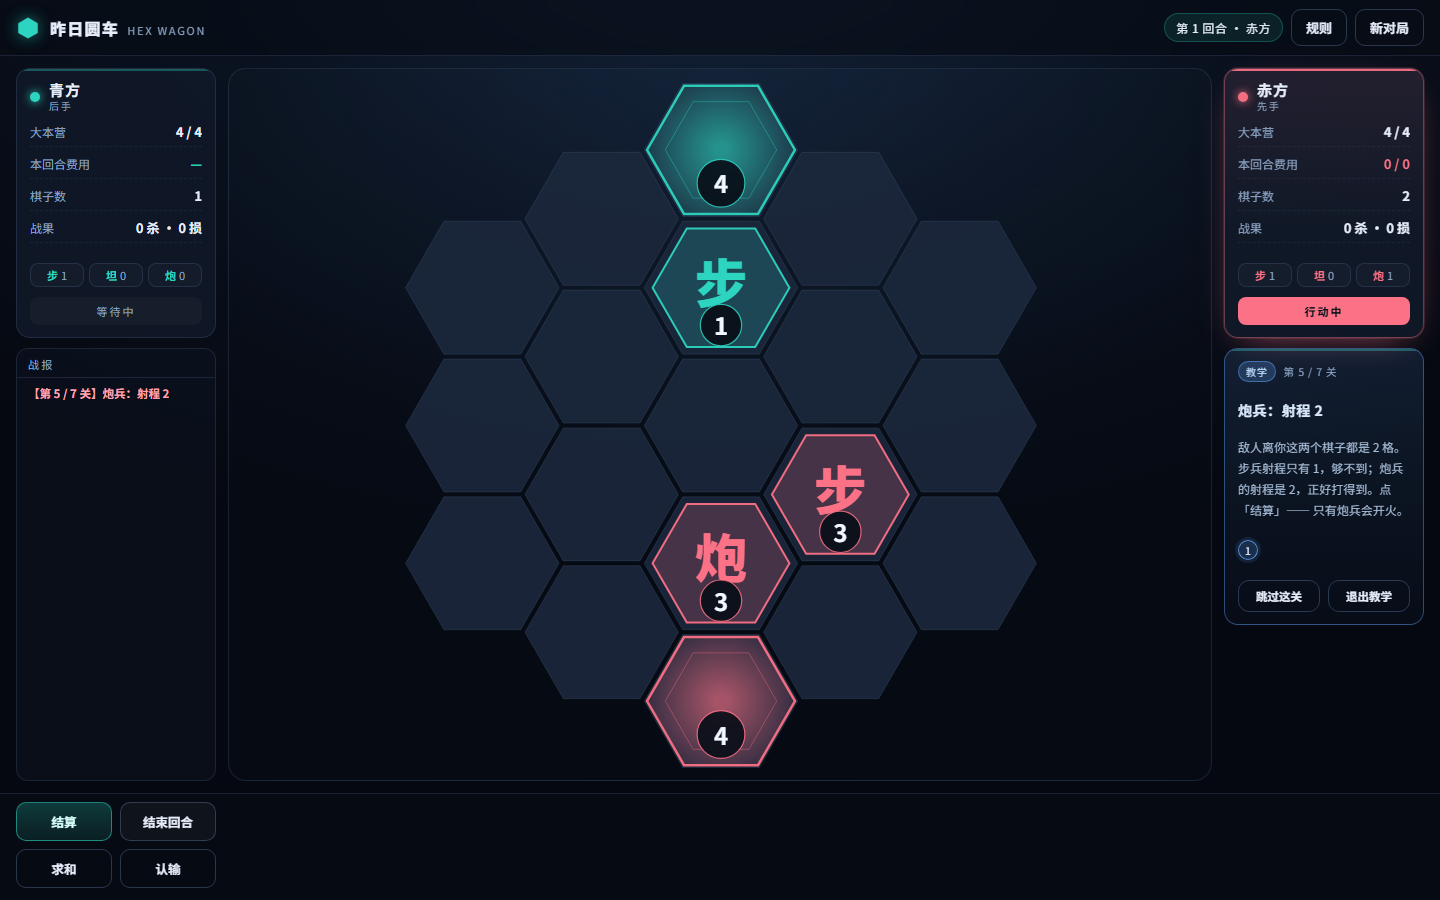
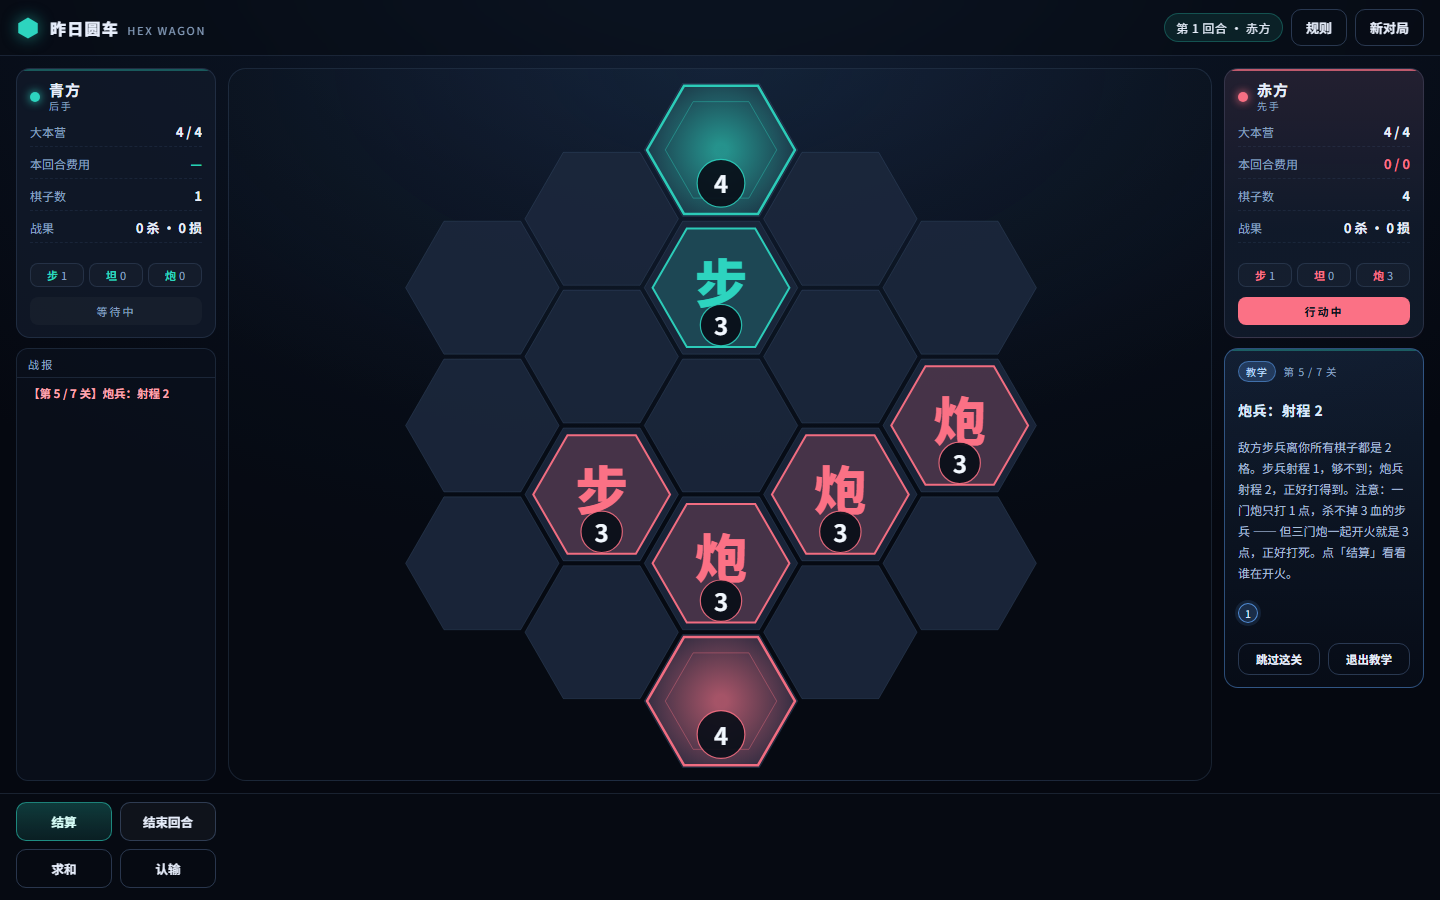
炮兵关改为满血敌人 + 三炮齐射，去掉残血作弊

diff --git a/tools/selftest.js b/tools/selftest.js
@@ -331,17 +331,22 @@ console.log('== 7.8 新手教学关卡 ==');
     eq(TUT.units(g2, 1), 1, '坦克关：同样位置放步兵会被 3 点打死');
   }
 
-  // 炮兵关：两个棋子都距敌 2 格，只有炮兵打到
+  // 炮兵关：满血敌人 + 3 门炮，靠伤害叠加才打死（不是一炮秒杀）
   {
     const g = TUT.buildLevel(ENGINE, byKey.range);
     const foe = [...g.pieces.values()].find((p) => p.owner === 0 && p.kind === 'infantry');
-    const art = TUT.findPiece(g, 1, 'artillery');
-    const inf = TUT.findPiece(g, 1, 'infantry');
-    eq(Hex.distance(Hex.parse(art.key), Hex.parse(foe.key)), 2, '炮兵关：炮兵在 2 格外');
-    eq(Hex.distance(Hex.parse(inf.key), Hex.parse(foe.key)), 2, '炮兵关：步兵也在 2 格外');
+    eq(foe.hp, 3, '炮兵关：敌人是满血 3 点（教学里不再用残血作弊）');
+    const mine = [...g.pieces.values()].filter((p) => p.owner === 1 && p.kind !== 'base');
+    eq(mine.length, 4, '炮兵关：我方 3 门炮 + 1 个步兵');
+    ok(mine.every((p) => Hex.distance(Hex.parse(p.key), Hex.parse(foe.key)) === 2),
+      '炮兵关：所有棋子都距敌 2 格（可比性）');
+    const art = mine.filter((p) => p.kind === 'artillery');
+    eq(art.length, 3, '炮兵关：3 门炮');
+    eq(art.reduce((s, p) => s + p.atk, 0), 3, '炮兵关：三门炮合计 3 点，正好等于敌兵血量');
+    eq(g.damageMap().get(foe.id), 3, '炮兵关：敌兵实际吃到 3 点');
     g.resolve();
-    eq(TUT.units(g, 0), 0, '炮兵关：只有炮兵打到并击杀');
-    eq(TUT.units(g, 1), 2, '炮兵关：我方毫发无伤');
+    eq(TUT.units(g, 0), 0, '炮兵关：结算后敌兵被击杀');
+    eq(TUT.units(g, 1), 4, '炮兵关：我方毫发无伤');
   }
 
   // 断联关 / 拆基地关

diff --git a/js/tutorial.js b/js/tutorial.js
@@ -125,13 +125,15 @@
       energy: 0,
       types: [],
       spawn: [
-        { owner: 0, type: 'infantry', cell: '0,-1', hp: 1 },
+        { owner: 0, type: 'infantry', cell: '0,-1' },
         { owner: 1, type: 'artillery', cell: '0,1' },
-        { owner: 1, type: 'infantry', cell: '1,0' }
+        { owner: 1, type: 'artillery', cell: '1,0' },
+        { owner: 1, type: 'artillery', cell: '2,-1' },
+        { owner: 1, type: 'infantry', cell: '-1,1' }
       ],
       steps: [
         {
-          text: '敌人离你这两个棋子都是 2 格。步兵射程只有 1，够不到；炮兵的射程是 2，正好打得到。点「结算」—— 只有炮兵会开火。',
+          text: '敌方步兵离你所有棋子都是 2 格。步兵射程 1，够不到；炮兵射程 2，正好打得到。注意：一门炮只打 1 点，杀不掉 3 血的步兵 —— 但三门炮一起开火就是 3 点，正好打死。点「结算」看看谁在开火。',
           done: function (g) { return opponentUnits(g, 1) === 0; }
         }
       ]
